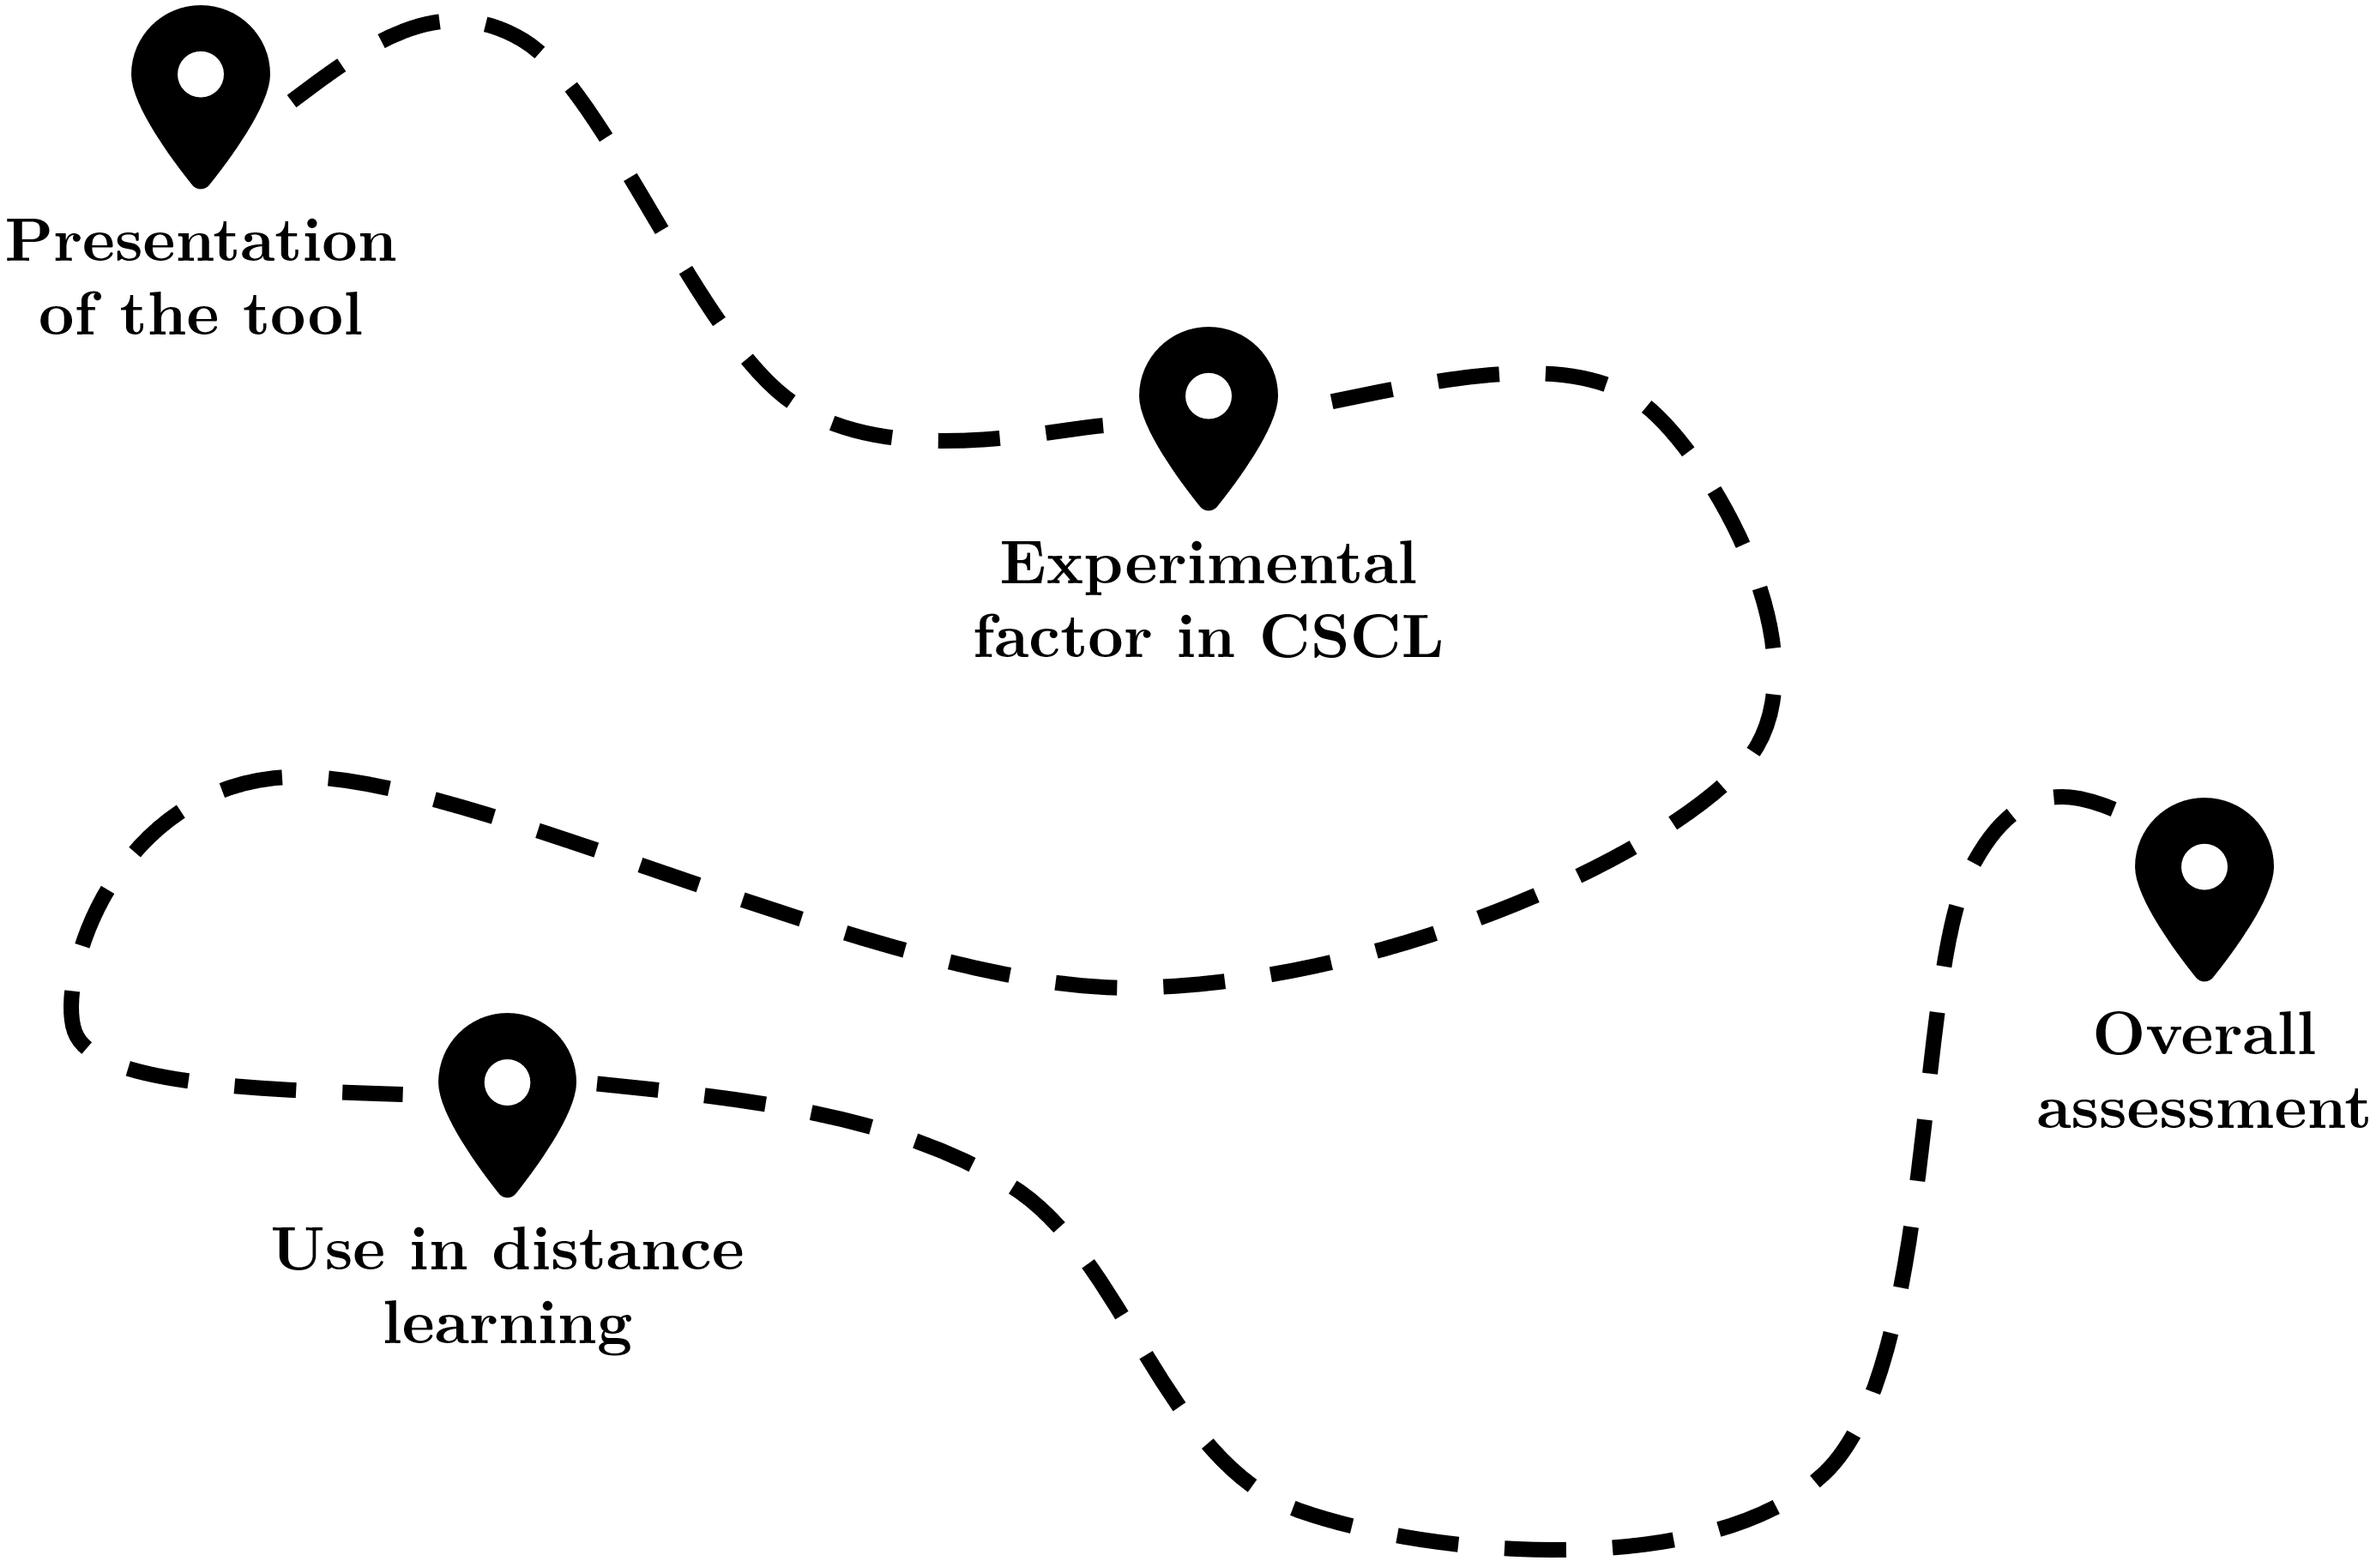
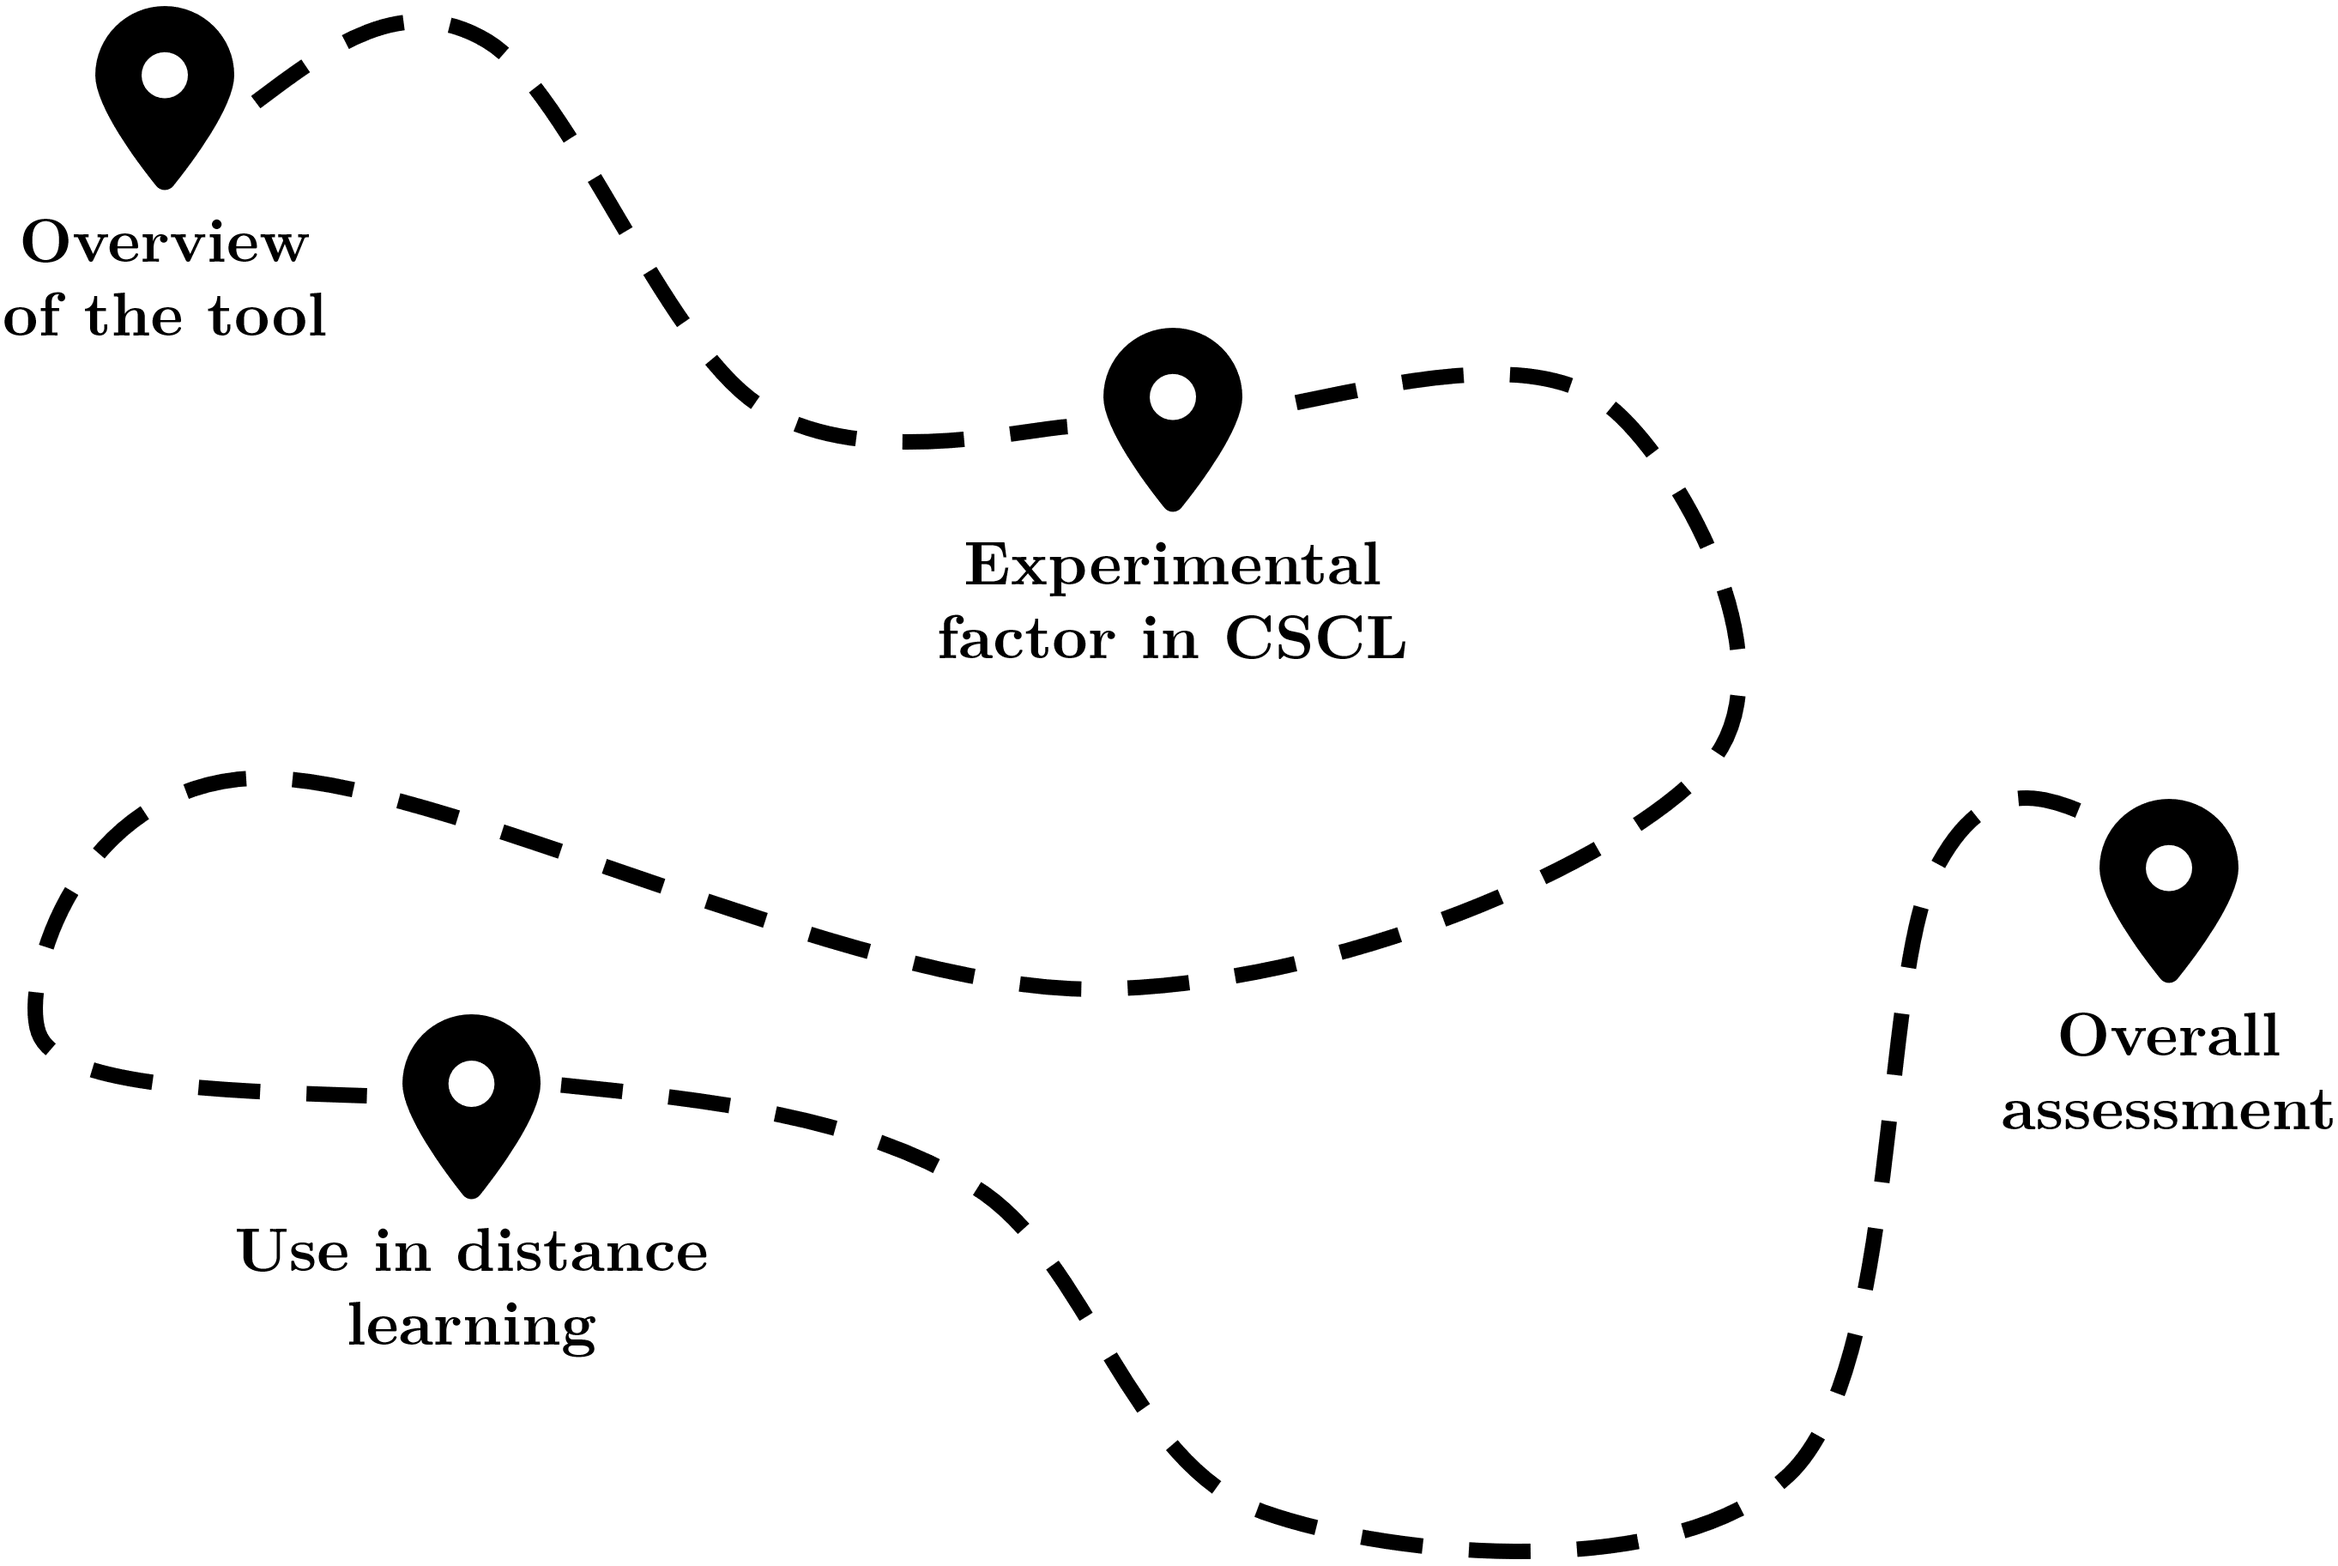
Other changes

diff --git a/en/thesis/index.html b/en/thesis/index.html
@@ -72,21 +72,23 @@
         </section>
 
         <!-- The rise of affectivism -->
-        <section class="align-center center">
+        <!-- <section class="align-center center">
           <h3>The era of affectivism?</h3>
           <div class="fragment">
             <div class="border-light-1 p-1 ml-2 mr-2">
-              <i class="fa fa-quote-left"></i>
-              [...] given the undeniable impact of affective sciences on our
-              models of brain, mind, and behaviour, it seems relevant to ask
-              today whether we are now in the era of affectivism.
-              <i class="fa fa-quote-right"></i>
+              <small>
+                <i class="fa fa-quote-left"></i>
+                [...] given the undeniable impact of affective sciences on our
+                models of brain, mind, and behaviour, it seems relevant to ask
+                today whether we are now in the era of affectivism.
+                <i class="fa fa-quote-right"></i>
+              </small>
             </div>
             <p class="text-right pr-5">
-              — Dukes et [<strong class="accent">63</strong>] al., 2021
+              <small>— Dukes et [63] al., 2021</small>
             </p>
           </div>
-        </section>
+        </section> -->
 
         <!-- Learning sciences -->
         <section class="align-center center">
@@ -149,13 +151,13 @@
           >
             Endowing computer-mediated learning environments with affect-related
             information
-            <strong class="accent">beyond</strong> face-to-face.
+            <strong class="accent">beyond</strong> face-to-face
           </div>
         </section>
 
         <!-- EAT -->
         <section class="align-center">
-          <h3>Emotion Awareness Tool (EAT)</h3>
+          <h3>Emotion Awareness Tools</h3>
           <img
             src="./images/affect-aware-vs-awareness-tool.png"
             style="height: 250px"
@@ -241,12 +243,11 @@
         </section>
 
         <!-- Presentation outline-->
-        <section class="align-center">
-          <h3>Presentation plan</h3>
+        <section class="align-center center">
           <img
             src="./images/presentation-map.png"
             alt="Presentation map"
-            class="r-stretch"
+            style="height: 450px"
           />
         </section>
 
@@ -255,9 +256,7 @@
           class="align-center center text-white"
           data-background-color="#005b86"
         >
-          <h3>
-            <i class="fa-solid fa-location-dot"></i> Presentation of the tool
-          </h3>
+          <h3><i class="fa-solid fa-location-dot"></i> Overview of the tool</h3>
           <small>Chapters 4, 5 and 6</small>
         </section>
 
@@ -273,19 +272,12 @@
             ><strong>Adapted figure</strong>: the dynamic architecture of the
             Component Process Model (Scherer, 2010)</small
           >
-          <div class="fragment">
-            <div class="border-light-1 p-1 ml-2 mr-2">
-              <small>
-                <i class="fa fa-quote-left"></i>
-                If one knows the results of an individual’s event
-                <strong class="accent">appraisal</strong> on major checks, one
-                can approximately predict [...] what
-                <strong class="accent">label</strong> the person is likely to
-                use [to name the emotion]
-                <i class="fa fa-quote-right"></i>
-              </small>
-            </div>
-            <p class="text-right pr-5"><small>— Scherer, 2009</small></p>
+          <div class="fragment mb-5">
+            <small
+              >The computational model suggests a set of lexicalized emotions
+              that are most likely to represent the subjective experience based
+              on how the situation has been appraised</small
+            >
           </div>
         </section>
 
@@ -746,14 +738,14 @@
 
         <!-- S2 EAU psychometric -->
         <section class="align-center">
-          <h3>Psychometric indicators</h3>
+          <h3>Exploratory factor analysis</h3>
           <img
             src="./images/s2-eau-factor-analysis.png"
             alt="Factor Analysis"
             title="Factor analysis"
-            class="r-stretch"
+            style="height: 300px"
           />
-          <div class="mt-2 mb-3 fragment">
+          <!-- <div class="mt-2 mb-3 fragment">
             <table>
               <thead>
                 <tr class="header">
@@ -772,7 +764,7 @@
                 </tr>
               </tbody>
             </table>
-          </div>
+          </div> -->
         </section>
 
         <!-- Data-Driven Assessment -->

diff --git a/en/thesis/demo/app/configurator/configurator.js b/en/thesis/demo/app/configurator/configurator.js
@@ -117,11 +117,11 @@ app.controller(
         showNoEmotion: true,
       },
       retrieving: {
-        showTimeline: false,
+        showTimeline: true,
         showTimelineSelf: true,
         showTimelineOther: true,
-        showAppraisalSelf: false,
-        showAppraisalOther: false,
+        showAppraisalSelf: true,
+        showAppraisalOther: true,
         showAppraisalX: false,
         showAppraisalY: false,
       },
